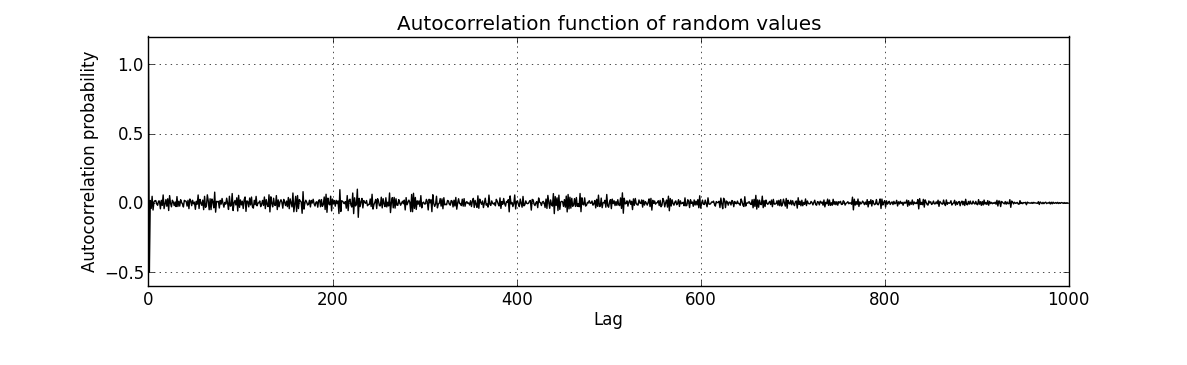
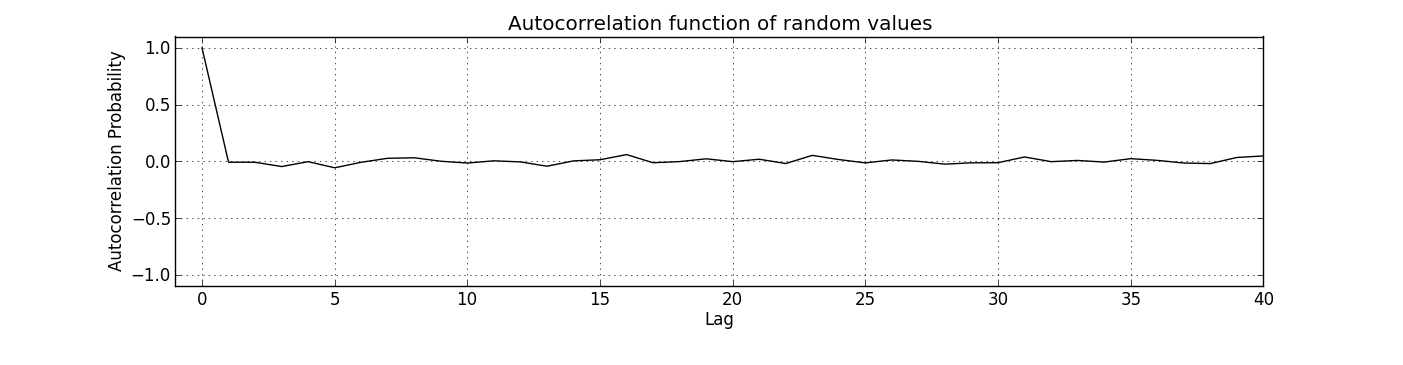
better autocorr example

diff --git a/code/ts.py b/code/ts.py
@@ -100,45 +100,38 @@ def autocorrelation_fast(x):
 def autocorr_example():
     np.random.seed(123456)
     # Make autocorrelated data
-    params = np.array([0.8, 0.5, -0.3])
-    x_auto = np.random.normal(0, 1, 3).tolist()
-    for _ in xrange(997):
-        x_auto.append(np.dot(x_auto[-3:], params) + np.random.normal(0, .5, 1)[0])
-    x_auto = np.array(x_auto)
-    auto_model = difference()
-    x_autodiff = auto_model.fit_transform(x_auto)
-    x_autodiff -= x_autodiff.mean()
-    x_autodiff /= x_autodiff.var()
+    z = np.random.normal(0, 1, 1000)
+    x_auto = z[1:] - .8 * z[:-1]
     # Make data that isn't autocorrelated
     x_not = np.random.normal(0, 1, 1000)
-    not_auto_model = difference()
-    x_notdiff = not_auto_model.fit_transform(x_not)
-    x_notdiff -= x_notdiff.mean()
-    x_notdiff /= x_notdiff.var()
     # Plot both series
-    plt.plot(x_autodiff, 'k')
+    plt.plot(x_auto, 'k')
     plt.xlabel("Fixed time intervals")
     plt.ylabel("Value")
     plt.grid()
     plt.title("Realization of Autocorrelated Function")
     plt.show()
-    plt.plot(x_notdiff, 'k')
+    plt.plot(x_not, 'k')
     plt.xlabel("Fixed time intervals")
     plt.ylabel("Value")
     plt.grid()
     plt.title("Realization of Random Values")
     plt.show()
     # Plot autocorrelation of both
-    plt.plot(autocorrelation_fast(x_autodiff), 'k')
+    plt.plot(autocorrelation_fast(x_auto), 'k')
     plt.xlabel("Lag")
-    plt.ylabel("Autocorrelation probability")
+    plt.ylabel("Autocorrelation Probability")
     plt.grid()
+    plt.xlim(-1, 40)
+    plt.ylim(-1.1, 1.1)
     plt.title("Autocorrelation function of autocorrelated function")
     plt.show()
-    plt.plot(autocorrelation_fast(x_notdiff), 'k')
+    plt.plot(autocorrelation_fast(x_not), 'k')
     plt.xlabel("Lag")
-    plt.ylabel("Autocorrelation probability")
+    plt.ylabel("Autocorrelation Probability")
     plt.grid()
+    plt.xlim(-1, 40)
+    plt.ylim(-1.1, 1.1)
     plt.title("Autocorrelation function of random values")
     plt.show()
 

diff --git a/content/ts_1.rst b/content/ts_1.rst
@@ -361,45 +361,38 @@ The code used to produce the plots in the above section.
     def autocorr_example():
         np.random.seed(123456)
         # Make autocorrelated data
-        params = np.array([0.8, 0.5, -0.3])
-        x_auto = np.random.normal(0, 1, 3).tolist()
-        for _ in xrange(997):
-            x_auto.append(np.dot(x_auto[-3:], params) + np.random.normal(0, .5, 1)[0])
-        x_auto = np.array(x_auto)
-        auto_model = difference()
-        x_autodiff = auto_model.fit_transform(x_auto)
-        x_autodiff -= x_autodiff.mean()
-        x_autodiff /= x_autodiff.var()
+        z = np.random.normal(0, 1, 1000)
+        x_auto = z[1:] - .8 * z[:-1]
         # Make data that isn't autocorrelated
         x_not = np.random.normal(0, 1, 1000)
-        not_auto_model = difference()
-        x_notdiff = not_auto_model.fit_transform(x_not)
-        x_notdiff -= x_notdiff.mean()
-        x_notdiff /= x_notdiff.var()
         # Plot both series
-        plt.plot(x_autodiff, 'k')
+        plt.plot(x_auto, 'k')
         plt.xlabel("Fixed time intervals")
         plt.ylabel("Value")
         plt.grid()
         plt.title("Realization of Autocorrelated Function")
         plt.show()
-        plt.plot(x_notdiff, 'k')
+        plt.plot(x_not, 'k')
         plt.xlabel("Fixed time intervals")
         plt.ylabel("Value")
         plt.grid()
         plt.title("Realization of Random Values")
         plt.show()
         # Plot autocorrelation of both
-        plt.plot(autocorrelation_fast(x_autodiff), 'k')
+        plt.plot(autocorrelation_fast(x_auto), 'k')
         plt.xlabel("Lag")
-        plt.ylabel("Autocorrelation probability")
+        plt.ylabel("Autocorrelation Probability")
         plt.grid()
+        plt.xlim(-1, 40)
+        plt.ylim(-1.1, 1.1)
         plt.title("Autocorrelation function of autocorrelated function")
         plt.show()
-        plt.plot(autocorrelation_fast(x_notdiff), 'k')
+        plt.plot(autocorrelation_fast(x_not), 'k')
         plt.xlabel("Lag")
-        plt.ylabel("Autocorrelation probability")
+        plt.ylabel("Autocorrelation Probability")
         plt.grid()
+        plt.xlim(-1, 40)
+        plt.ylim(-1.1, 1.1)
         plt.title("Autocorrelation function of random values")
         plt.show()
 
